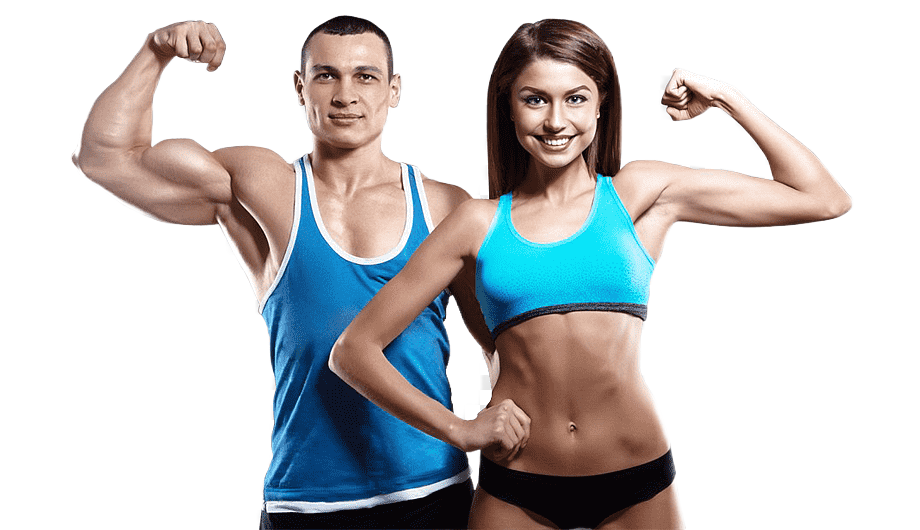
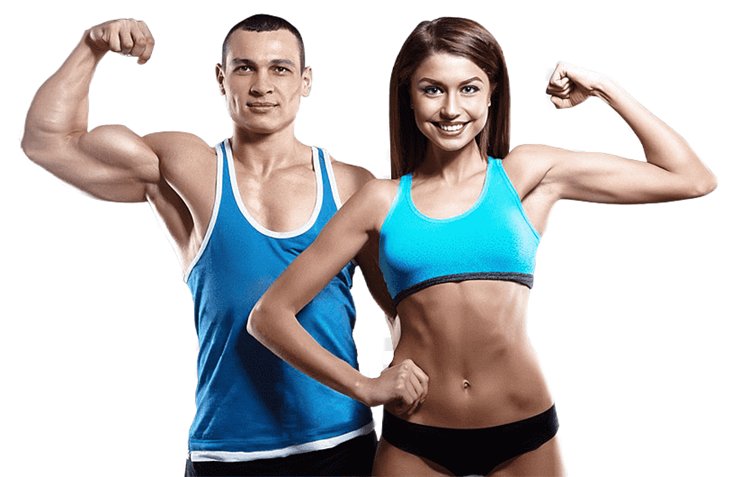
base.html: added block image

Changed region(s): [[0.0311, 0.0294, 0.9946, 1.0], [0.5595, 0.7631, 0.5905, 0.8218], [0.6216, 0.7925, 0.6527, 0.8218]]

diff --git a/courses/templates/courses/course/list.html b/courses/templates/courses/course/list.html
@@ -65,8 +65,10 @@
             </p>
             {% endwith %}
     {% endfor %}
-				<div style="float: right; width: 160%;">
+</div>
+{% endblock %}
+{% block image %}
+				<div style="float: right; width: 50%;">
     <img src="{% static 'images/home.png' %}" alt="Welcome!">
 				</div>
-</div>
 {% endblock %}

diff --git a/courses/templates/base.html b/courses/templates/base.html
@@ -48,5 +48,7 @@
 				{% endblock %}
 				})
 		</script>
+				{% block image %}
+				{% endblock %}
 </body>
 </html>
